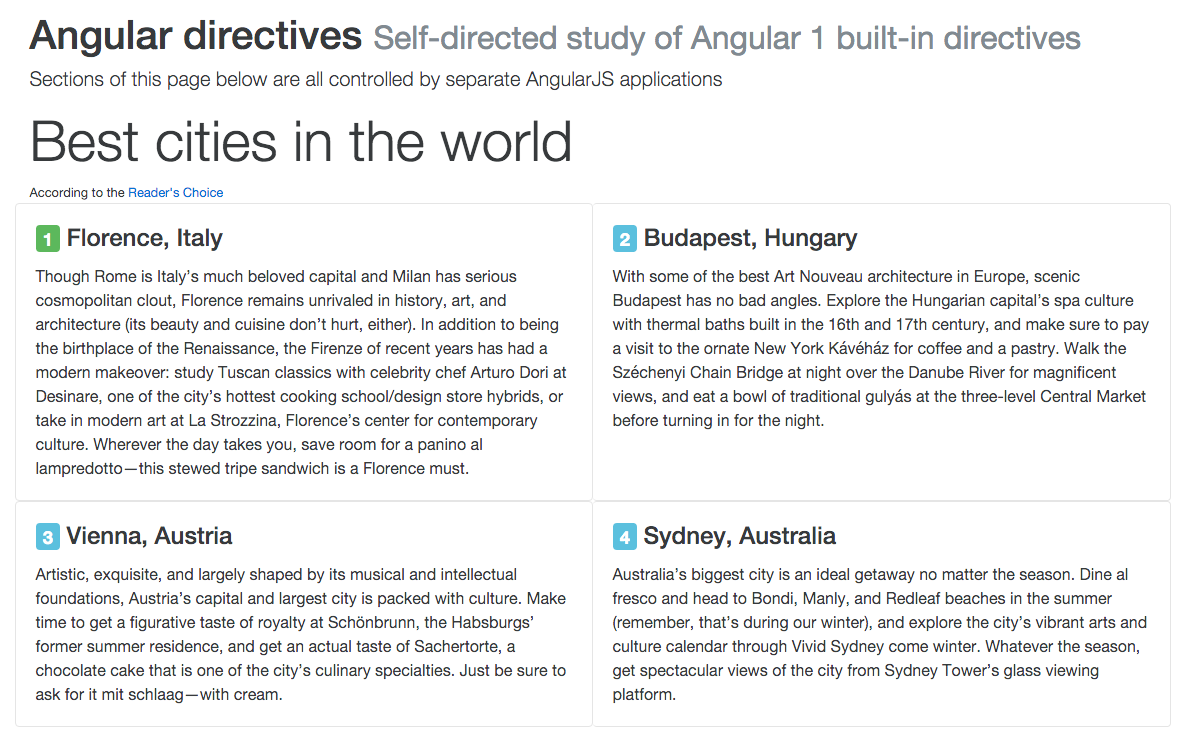
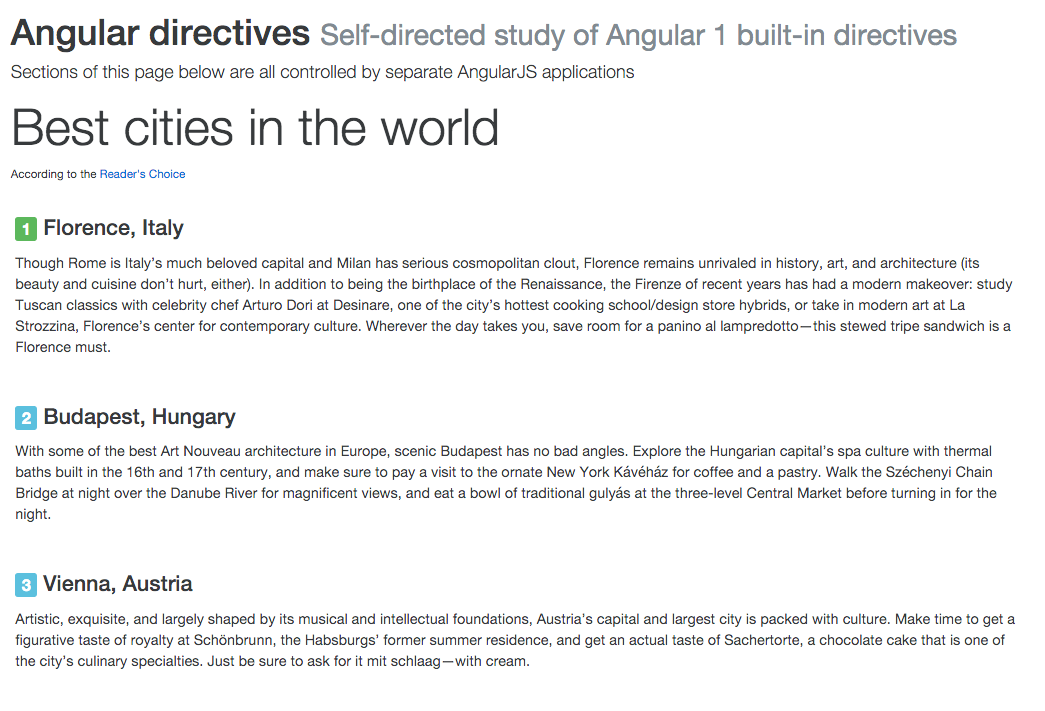
first assignment

Changed region(s): [[0.0, 0.1547, 0.9799, 0.9592], [0.0, 0.0, 0.9187, 0.1238]]

diff --git a/index.html b/index.html
@@ -31,36 +31,29 @@
       <div class="row">
         <div class="col-xl-12">
           <h1 class="display-1">Best cities in the world</h1>
-          <small>According to the <a href="http://www.cntraveler.com/galleries/2014-10-20/top-25-cities-in-the-world-readers-choice-awards-2014/30">Reader's Choice</a></small>
+          <p>
+            <small>According to the <a href="http://www.cntraveler.com/galleries/2014-10-20/top-25-cities-in-the-world-readers-choice-awards-2014/30">Reader's Choice</a></small>
+          </p>
         </div>
       </div>
 
       <div class="row">
-        <div class="card-group">
-          <div class="card card-block">
-            <h4 class="card-title"><span class="label label-success">1</span> Florence, Italy</h4>
-            <p class="card-text">Though Rome is Italy’s much beloved capital and Milan has serious cosmopolitan clout, Florence remains unrivaled in history, art, and architecture (its beauty and cuisine don’t hurt, either). In addition to being the birthplace of the Renaissance, the Firenze of recent years has had a modern makeover: study Tuscan classics with celebrity chef Arturo Dori at Desinare, one of the city’s hottest cooking school/design store hybrids, or take in modern art at La Strozzina, Florence’s center for contemporary culture. Wherever the day takes you, save room for a panino al lampredotto—this stewed tripe sandwich is a Florence must.</p>
-          </div>
-
-          <div class="card card-block">
-            <h4 class="card-title"><span class="label label-info">2</span> Budapest, Hungary</h4>
-            <p class="card-text">With some of the best Art Nouveau architecture in Europe, scenic Budapest has no bad angles. Explore the Hungarian capital’s spa culture with thermal baths built in the 16th and 17th century, and make sure to pay a visit to the ornate New York Kávéház for coffee and a pastry. Walk the Széchenyi Chain Bridge at night over the Danube River for magnificent views, and eat a bowl of traditional gulyás at the three-level Central Market before turning in for the night.</p>
-          </div>
+        <div class="card card-block">
+          <h4 class="card-title"><span class="label label-success">1</span> Florence, Italy</h4>
+          <p class="card-text">Though Rome is Italy’s much beloved capital and Milan has serious cosmopolitan clout, Florence remains unrivaled in history, art, and architecture (its beauty and cuisine don’t hurt, either). In addition to being the birthplace of the Renaissance, the Firenze of recent years has had a modern makeover: study Tuscan classics with celebrity chef Arturo Dori at Desinare, one of the city’s hottest cooking school/design store hybrids, or take in modern art at La Strozzina, Florence’s center for contemporary culture. Wherever the day takes you, save room for a panino al lampredotto—this stewed tripe sandwich is a Florence must.</p>
         </div>
-      </div>
-
-      <div class="row">
-        <div class="card-group">
-          <div class="card card-block">
-            <h4 class="card-title"><span class="label label-info">3</span> Vienna, Austria</h4>
-            <p class="card-text">Artistic, exquisite, and largely shaped by its musical and intellectual foundations, Austria’s capital and largest city is packed with culture. Make time to get a figurative taste of royalty at Schönbrunn, the Habsburgs’ former summer residence, and get an actual taste of Sachertorte, a chocolate cake that is one of the city’s culinary specialties. Just be sure to ask for it mit schlaag—with cream.</p>
-          </div>
-
-          <div class="card card-block">
-            <h4 class="card-title"><span class="label label-info">4</span> Sydney, Australia</h4>
-            <p class="card-text">Australia’s biggest city is an ideal getaway no matter the season. Dine al fresco and head to Bondi, Manly, and Redleaf beaches in the summer (remember, that’s during our winter), and explore the city’s vibrant arts and culture calendar through Vivid Sydney come winter. Whatever the season, get spectacular views of the city from Sydney Tower’s glass viewing platform.
-            </p>
-          </div>
+        <div class="card card-block">
+          <h4 class="card-title"><span class="label label-info">2</span> Budapest, Hungary</h4>
+          <p class="card-text">With some of the best Art Nouveau architecture in Europe, scenic Budapest has no bad angles. Explore the Hungarian capital’s spa culture with thermal baths built in the 16th and 17th century, and make sure to pay a visit to the ornate New York Kávéház for coffee and a pastry. Walk the Széchenyi Chain Bridge at night over the Danube River for magnificent views, and eat a bowl of traditional gulyás at the three-level Central Market before turning in for the night.</p>
+        </div>
+        <div class="card card-block">
+          <h4 class="card-title"><span class="label label-info">3</span> Vienna, Austria</h4>
+          <p class="card-text">Artistic, exquisite, and largely shaped by its musical and intellectual foundations, Austria’s capital and largest city is packed with culture. Make time to get a figurative taste of royalty at Schönbrunn, the Habsburgs’ former summer residence, and get an actual taste of Sachertorte, a chocolate cake that is one of the city’s culinary specialties. Just be sure to ask for it mit schlaag—with cream.</p>
+        </div>
+        <div class="card card-block">
+          <h4 class="card-title"><span class="label label-info">4</span> Sydney, Australia</h4>
+          <p class="card-text">Australia’s biggest city is an ideal getaway no matter the season. Dine al fresco and head to Bondi, Manly, and Redleaf beaches in the summer (remember, that’s during our winter), and explore the city’s vibrant arts and culture calendar through Vivid Sydney come winter. Whatever the season, get spectacular views of the city from Sydney Tower’s glass viewing platform.
+          </p>
         </div>
 
       </div>

diff --git a/README.md b/README.md
@@ -209,6 +209,12 @@ when iterating over an Array in javascript
 [ng-repeat]: https://docs.angularjs.org/api/ng/directive/ngRepeat
 [directives]: https://docs.angularjs.org/api/ng/directive
 
+### Exercise - use ng-repeat to show cities
+
+* Instead of static content listing the cities in the `index.html` page,
+  move all content to the list of objects on the scope inside `CitiesController`.
+* Replace separate city DOM elements with single `ng-repeat` use.
+
 ### Small print
 
 Author: Gleb Bahmutov &copy; 2015
